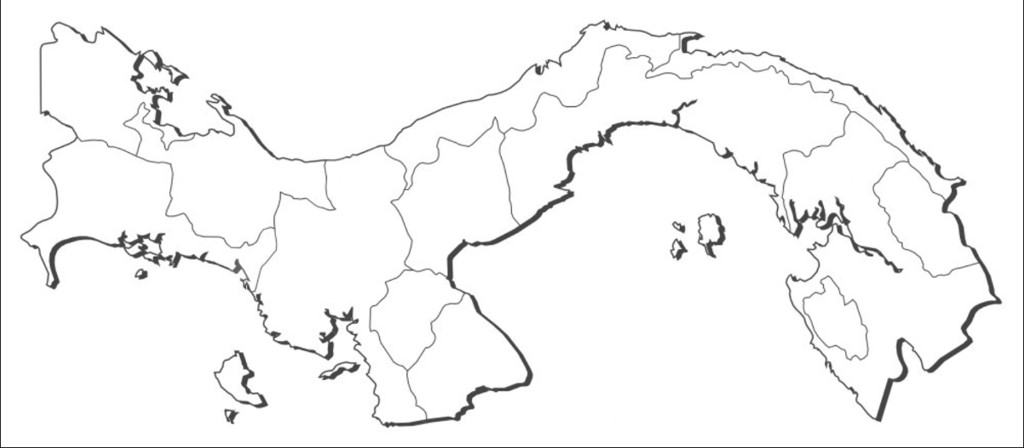
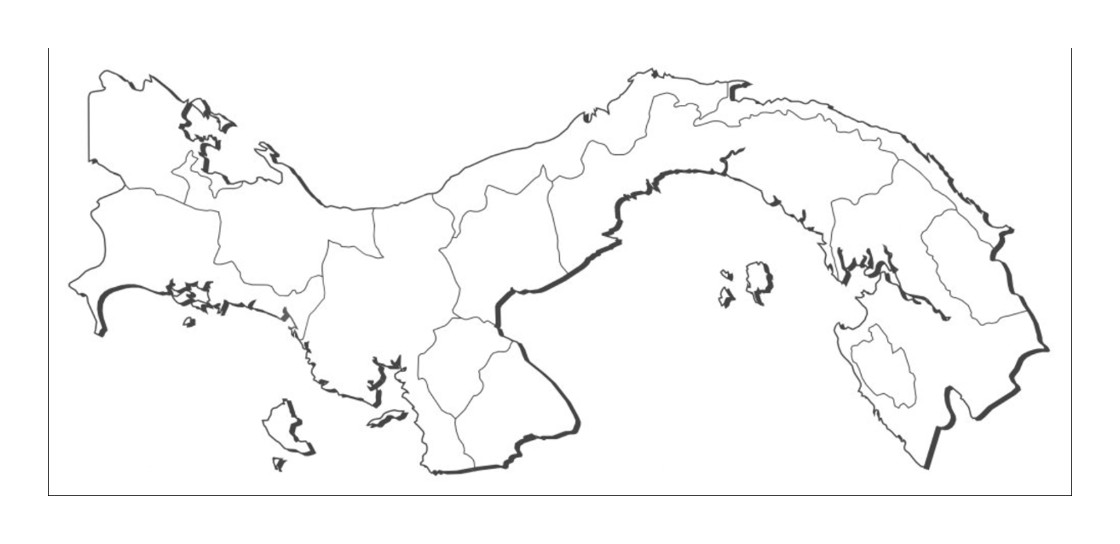
Mapa territorio: PNG con margen, SVG alineado, marco más grande y estilo
Made-with: Cursor

Changed region(s): [[0.0, 0.0312, 1.0, 0.9688], [0.9688, 0.9688, 1.0, 1.0], [0.0, 0.9688, 0.0312, 1.0]]

diff --git a/caso-negocio.html b/caso-negocio.html
@@ -101,12 +101,13 @@
                   aria-label="Mapa de Panamá por provincias; población al pasar el cursor o al enfocar cada región"
                 >
                   <div class="pp-panama-map__figure">
+                    <div class="pp-panama-map__media">
                     <img
                       class="pp-panama-map__base"
                       src="assets/magazine/panama-provincias-outline.png"
-                      width="1024"
-                      height="448"
-                      alt="Mapa esquemático de Panamá con límites provinciales"
+                      width="1120"
+                      height="544"
+                      alt="Mapa de Panamá con límites provinciales y margen de aire"
                       loading="eager"
                       decoding="async"
                     />
@@ -114,12 +115,13 @@
                     <svg
                       class="pp-panama-map__overlay"
                       id="cn-panama-svg"
-                      viewBox="0 0 1024 448"
+                      viewBox="0 0 1120 544"
                       preserveAspectRatio="xMidYMid meet"
                       role="img"
                       aria-labelledby="cn-panama-svg-title"
                     >
                       <title id="cn-panama-svg-title">Panamá — diez provincias (contorno tomado del mapa base)</title>
+                      <g transform="translate(48,48)">
                       <g class="pp-panama-svg__hit" stroke="none">
                         <path class="pp-panama-prov" data-prov="bocas-del-toro" tabindex="0" d="M 135.00,153.50 L 109.00,145.50 L 101.00,138.50 L 81.00,139.50 L 70.00,124.50 L 47.00,109.50 L 41.50,110.00 L 41.50,47.00 L 57.50,41.00 L 52.50,30.00 L 57.00,23.50 L 68.00,26.50 L 91.00,43.50 L 95.50,42.00 L 98.00,32.50 L 103.00,34.50 L 105.00,30.50 L 128.00,51.50 L 137.00,54.50 L 132.50,68.00 L 137.50,73.00 L 129.50,80.00 L 141.00,92.50 L 152.50,94.00 L 149.50,103.00 L 155.50,111.00 L 152.50,122.00 L 160.00,126.50 L 172.00,126.50 L 179.00,136.50 L 192.50,135.00 L 185.00,139.50 L 173.00,139.50 L 166.00,147.50 L 161.50,139.00 L 163.50,131.00 L 143.50,121.00 L 150.50,110.00 L 142.00,101.50 L 136.50,112.00 L 122.50,123.00 L 139.50,136.00 L 135.00,153.50 Z"/>
                         <path class="pp-panama-prov" data-prov="chiriqui" tabindex="0" d="M 253.00,290.50 L 238.00,258.50 L 232.00,269.50 L 206.00,259.50 L 207.00,250.50 L 199.00,257.50 L 176.00,250.50 L 172.00,259.50 L 172.00,254.50 L 161.50,254.00 L 164.00,232.50 L 158.00,232.50 L 154.00,239.50 L 149.50,237.00 L 150.00,232.50 L 137.00,233.50 L 136.00,238.50 L 128.00,241.50 L 124.00,229.50 L 116.50,238.00 L 118.00,243.50 L 89.00,235.50 L 57.00,241.50 L 48.50,253.00 L 53.50,279.00 L 48.00,284.50 L 49.50,273.00 L 39.50,247.00 L 30.00,244.50 L 22.50,235.00 L 56.50,212.00 L 56.50,186.00 L 43.50,166.00 L 51.50,158.00 L 50.50,153.00 L 77.00,138.50 L 80.00,141.50 L 101.00,140.50 L 108.00,147.50 L 121.00,149.50 L 146.00,161.50 L 168.00,163.50 L 171.50,172.00 L 170.50,199.00 L 164.50,215.00 L 184.00,214.50 L 196.00,235.50 L 220.00,237.50 L 230.00,247.50 L 239.00,248.50 L 245.00,242.50 L 251.00,245.50 L 264.00,229.50 L 273.00,228.50 L 275.50,248.00 L 259.50,267.00 L 253.00,290.50 Z"/>
@@ -138,7 +140,9 @@
                         <path d="M 935.00,275.50 L 923.50,267.00 L 915.00,251.50 L 902.50,246.00 L 889.50,225.00 L 888.50,213.00 L 879.50,204.00 L 879.50,197.00 L 873.50,190.00 L 885.50,171.00 L 901.00,161.50 L 914.00,168.50 L 930.50,191.00 L 943.50,199.00 L 941.50,212.00 L 953.50,216.00 L 960.50,243.00 L 970.50,249.00 L 976.50,260.00 L 935.00,275.50 Z"/>
                         <path d="M 862.00,357.50 L 856.00,354.50 L 848.00,357.50 L 843.00,347.50 L 828.00,345.50 L 817.50,335.00 L 804.50,311.00 L 803.50,300.00 L 814.00,293.50 L 823.00,293.50 L 825.50,290.00 L 821.50,280.00 L 828.00,276.50 L 842.50,297.00 L 843.50,305.00 L 852.00,300.50 L 855.50,305.00 L 860.50,324.00 L 865.50,329.00 L 866.50,352.00 L 862.00,357.50 Z"/>
                       </g>
+                      </g>
                     </svg>
+                    </div>
                   </div>
                   <div
                     class="pp-panama-map__tooltip"

diff --git a/caso-negocio-magazine-overrides.css b/caso-negocio-magazine-overrides.css
@@ -319,24 +319,39 @@ body {
 
 .pp-panama-map {
   position: relative;
-  border-radius: 14px;
-  border: 1px solid var(--line);
-  background: linear-gradient(165deg, rgba(255, 255, 255, 0.96), rgba(241, 245, 255, 0.92));
-  box-shadow: 0 8px 24px rgba(30, 27, 75, 0.06);
-  min-height: 220px;
-  max-height: min(56vh, 440px);
+  border-radius: 16px;
+  border: 1px solid rgba(148, 163, 184, 0.35);
+  background: linear-gradient(165deg, #ffffff 0%, #f1f5f9 55%, #eef2ff 100%);
+  box-shadow:
+    0 1px 0 rgba(255, 255, 255, 0.9) inset,
+    0 12px 32px rgba(30, 27, 75, 0.08);
+  min-height: 260px;
+  max-height: min(68vh, 560px);
   overflow: hidden;
-  padding: 0.5rem 0.55rem 0.6rem;
+  padding: 0.65rem 0.75rem 0.75rem;
   box-sizing: border-box;
 }
 
 .pp-panama-map__figure {
-  position: relative;
   display: block;
   width: 100%;
-  max-width: min(100%, 560px);
+  max-width: min(100%, 720px);
   margin: 0 auto;
+  padding: 0.55rem 0.65rem 0.65rem;
   box-sizing: border-box;
+  border-radius: 12px;
+  background: linear-gradient(180deg, rgba(255, 255, 255, 0.98), rgba(248, 250, 252, 0.96));
+  box-shadow: inset 0 0 0 1px rgba(226, 232, 240, 0.9);
+}
+
+.pp-panama-map__media {
+  position: relative;
+  display: block;
+  border-radius: 10px;
+  background: #fff;
+  box-shadow:
+    inset 0 0 0 1px rgba(203, 213, 225, 0.65),
+    0 4px 14px rgba(15, 23, 42, 0.04);
 }
 
 .pp-panama-map__base {
@@ -344,7 +359,7 @@ body {
   width: 100%;
   height: auto;
   vertical-align: top;
-  border-radius: 10px;
+  border-radius: 8px;
 }
 
 .pp-panama-map__overlay {
@@ -354,7 +369,7 @@ body {
   width: 100%;
   height: 100%;
   pointer-events: none;
-  border-radius: 10px;
+  border-radius: 8px;
 }
 
 .pp-panama-svg__hit {
@@ -430,8 +445,14 @@ body {
 
 @media (max-width: 640px) {
   .pp-panama-map {
-    min-height: 200px;
+    min-height: 220px;
+    max-height: min(62vh, 480px);
+    padding: 0.45rem 0.5rem 0.55rem;
+  }
+
+  .pp-panama-map__figure {
     padding: 0.4rem 0.45rem 0.5rem;
+    max-width: 100%;
   }
 
   .pp-panama-map__tooltip {

diff --git a/caso-negocio-data.js b/caso-negocio-data.js
@@ -231,7 +231,7 @@
     distritosTitulo: 'Territorio: contexto para quien no conoce Panamá',
 
     distritosIntro:
-      'Mapa base con límites reales del PNG: cada provincia tiene su contorno interactivo; comarcas visibles sin dato al pasar el cursor. Pase el cursor o use Tab. Cierre oficial con INEC.',
+      'Mapa base con margen alrededor del istmo y límites reales: cada provincia tiene contorno interactivo; comarcas visibles sin dato al pasar el cursor. Pase el cursor o use Tab. Cierre oficial con INEC.',
 
     distritosNota:
       'Cifras referenciales para narrativa ejecutiva (INEC en version final). La red de 2.500 puntos se usa en la pagina siguiente solo como escenario de modelado.',
